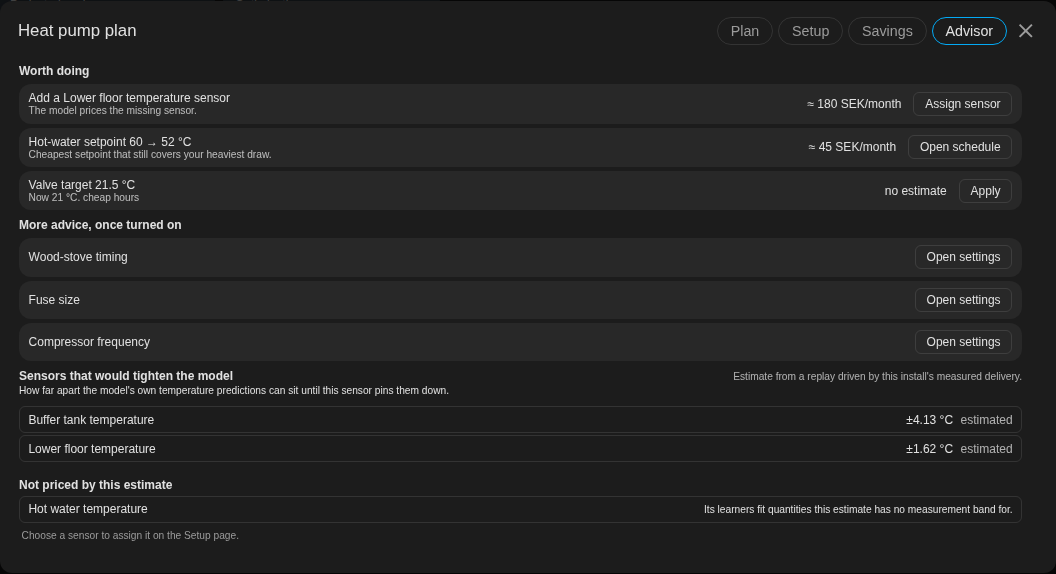
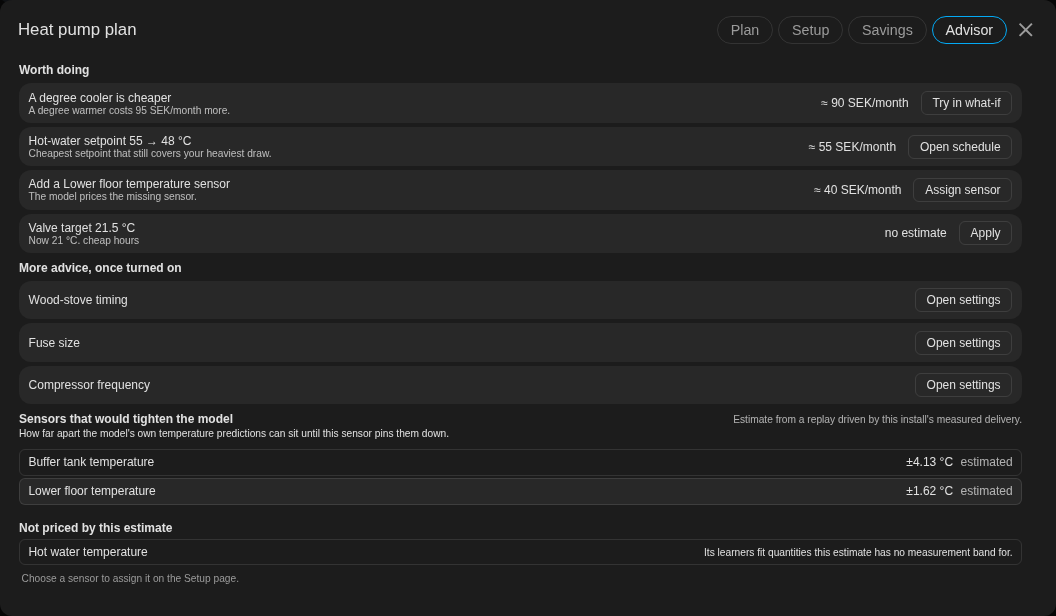
R9-UX-2: price of a degree row, interpolated hot-water price, honest unavailable state, UX-5 carry
Round 1 review: deliver the degree row from price_tiles, price an off-grid hot-water setpoint, pin the rank order with an unordered fixture, kill the gap/at-recommendation/valve-rounding survivors, stop reading attributes of an unavailable advisor, and write the R9-UX-5 carry into carry-1795.json.

Claude-Session: https://claude.ai/code/session_013PTXRW4koLWsYafMCC8Gt5

diff --git a/custom_components/heatpump_optimizer/www/heatpump-optimizer-card.js b/custom_components/heatpump_optimizer/www/heatpump-optimizer-card.js
@@ -120,6 +120,10 @@ const STRINGS = {
     "advisor.valve_detail": "Now {from} °C. {reason}",
     "advisor.act_apply": "Apply",
     "advisor.act_settings": "Open settings",
+    "advisor.degree_title": "A degree cooler is cheaper",
+    "advisor.degree_detail": "A degree warmer costs {up} {currency}/month more.",
+    "advisor.act_degree": "Try in what-if",
+    "advisor.optin_degree": "Price of a degree",
     "advisor.applied": "Valve target set to {to} °C.",
     "advisor.apply_failed": "Could not apply: {error}",
     "advisor.optin_wood": "Wood-stove timing",
@@ -661,6 +665,10 @@ const STRINGS = {
     "advisor.valve_detail": "Nu {from} °C. {reason}",
     "advisor.act_apply": "Verkställ",
     "advisor.act_settings": "Öppna inställningar",
+    "advisor.degree_title": "En grad svalare är billigare",
+    "advisor.degree_detail": "En grad varmare kostar {up} {currency}/månad mer.",
+    "advisor.act_degree": "Prova i what-if",
+    "advisor.optin_degree": "Pris på en grad",
     "advisor.applied": "Ventilmålet satt till {to} °C.",
     "advisor.apply_failed": "Kunde inte verkställa: {error}",
     "advisor.optin_wood": "Vedpannans timing",
@@ -7890,6 +7898,7 @@ const ADVISOR_SUFFIXES = {
   valve: "_valve_target_recommendation",
 };
 const ADVISOR_OPT_IN = ["wood", "fuse", "frequency"];
+// Shown only while the score sensor publishes no price_tiles (their switch is off).
 const SETTINGS_PATH = "/config/integrations/integration/heatpump_optimizer";
 const DAYS_PER_MONTH = 30;
 
@@ -7906,22 +7915,49 @@ function advisorSignature(plan) {
 function advisorRow(plan, kind, build) {
   const st = plan.statEntity(ADVISOR_SUFFIXES[kind]);
   if (!st) return null;
+  // Home Assistant drops extra attributes while an entity is unavailable, so
+  // nothing but the state is trusted there; "unknown" keeps its attributes,
+  // which is where a sensor says what it is still waiting for.
+  if (st.state === "unavailable") return { kind, status: "error" };
   const attrs = st.attributes || {};
-  if (st.state === "unavailable" || st.state === "unknown") {
+  if (st.state === "unknown") {
     return attrs.waiting_for
       ? { kind, status: "waiting", reason: String(attrs.waiting_for) }
-      : { kind, status: "error", reason: attrs.reason ? String(attrs.reason) : "" };
+      : { kind, status: "error" };
   }
   const row = build(Number(st.state), attrs);
   return row ? { kind, status: "ready", ...row } : null;
 }
 
+/** Price of a degree: the score sensor's `price_tiles` (target -1 / +1 degC),
+ * present only while the backend computes them. Null when it does not. */
+function priceTiles(plan) {
+  const st = plan.statEntity("_plan_optimization_score");
+  const tiles = st && st.attributes && st.attributes.price_tiles;
+  const down = tiles && tiles.target_minus_1;
+  const up = tiles && tiles.target_plus_1;
+  return down && up && Number.isFinite(Number(down.monthly_cost_delta)) ? { down, up } : null;
+}
+
+/** Linear cost per day at an off-grid setpoint, clamped to the swept range. */
+function dhwCostPerDay(candidates, setpoint) {
+  const pts = (candidates || [])
+    .map((c) => [Number(c.setpoint), Number(c.cost_per_day)])
+    .filter(([x, y]) => Number.isFinite(x) && Number.isFinite(y))
+    .sort((p, q) => p[0] - q[0]);
+  if (!pts.length) return NaN;
+  if (setpoint <= pts[0][0]) return pts[0][1];
+  const last = pts[pts.length - 1];
+  if (setpoint >= last[0]) return last[1];
+  const i = pts.findIndex((p) => p[0] >= setpoint);
+  const [x0, y0] = pts[i - 1];
+  const [x1, y1] = pts[i];
+  return y0 + ((y1 - y0) * (setpoint - x0)) / (x1 - x0);
+}
+
 function advisorRows(host) {
   const plan = host.plan;
-  const cost = (attrs, setpoint) => {
-    const hit = (attrs.candidates || []).find((c) => c.setpoint === setpoint);
-    return hit ? Number(hit.cost_per_day) : NaN;
-  };
+  const tiles = priceTiles(plan);
   const rows = [
     advisorRow(plan, "gap", (value, attrs) => {
       if (!(value > 0) || !attrs.top_slot) return null;
@@ -7935,7 +7971,7 @@ function advisorRows(host) {
     advisorRow(plan, "dhw", (to, attrs) => {
       const from = Number(attrs.current_setpoint);
       if (!Number.isFinite(to) || !Number.isFinite(from) || to === from) return null;
-      const perDay = cost(attrs, from) - cost(attrs, to);
+      const perDay = dhwCostPerDay(attrs.candidates, from) - dhwCostPerDay(attrs.candidates, to);
       return {
         value: perDay > 0 ? perDay * DAYS_PER_MONTH : null, act: "open_schedule",
         title: L("advisor.dhw_title", { from, to }), detail: L("advisor.dhw_detail"),
@@ -7954,6 +7990,15 @@ function advisorRows(host) {
         detail: L("advisor.valve_detail", { from, reason: attrs.reason || "" }),
       };
     }),
+    tiles && {
+      kind: "degree", status: "ready", act: "try_degree",
+      // Only a saving is a value; a degree that costs more is still shown.
+      value: Number(tiles.down.monthly_cost_delta) < 0 ? -Number(tiles.down.monthly_cost_delta) : null,
+      target: Number(tiles.down.overrides && tiles.down.overrides.target_temp),
+      title: L("advisor.degree_title"),
+      detail: L("advisor.degree_detail", {
+        up: Math.round(Number(tiles.up.monthly_cost_delta)), currency: plan.currency() }),
+    },
   ].filter(Boolean);
   // Ranked by monthly value; a row with no money in it follows every priced one.
   return rows.sort((a, b) => (b.value ?? -1) - (a.value ?? -1));
@@ -7962,12 +8007,12 @@ function advisorRows(host) {
 function advisorRowHtml(host, row) {
   const act = {
     assign: "advisor.act_assign", open_schedule: "advisor.act_schedule",
-    apply_valve: "advisor.act_apply",
+    apply_valve: "advisor.act_apply", try_degree: "advisor.act_degree",
   };
   if (row.status !== "ready") {
     const text = row.status === "waiting"
       ? L("advisor.waiting", { reason: row.reason })
-      : `${L("advisor.unavailable")}${row.reason ? ` (${row.reason})` : ""}`;
+      : L("advisor.unavailable");
     return `<div class="adv-inbox-row adv-${row.status}"><span class="adv-text">${esc(text)}</span></div>`;
   }
   const value = row.value === null ? L("advisor.no_value")
@@ -7983,7 +8028,7 @@ function advisorRowHtml(host, row) {
 
 function advisorInboxHtml(host) {
   const rows = advisorRows(host);
-  const optIn = ADVISOR_OPT_IN.map((id) => `<div class="adv-inbox-row">
+  const optIn = (priceTiles(host.plan) ? ADVISOR_OPT_IN : ["degree", ...ADVISOR_OPT_IN]).map((id) => `<div class="adv-inbox-row">
       <span class="adv-text">${esc(L(`advisor.optin_${id}`))}</span>
       <button type="button" class="adv-act" data-act="settings">${esc(L("advisor.act_settings"))}</button>
     </div>`).join("");
@@ -8108,6 +8153,15 @@ function attachAdvisorInbox(host, root) {
         host.dialog.page = "setup";
       } else if (act === "open_schedule") {
         host.dialog.page = "plan";
+      } else if (act === "try_degree") {
+        // Seed the what-if slider with the tile's target and run it.
+        const to = Number(btn.dataset.target);
+        if (Number.isFinite(to)) host.whatIf.draft().comfort = Math.min(24, Math.max(16, to));
+        host.dialog.page = "plan";
+        host.dialog.scroll = 0;
+        host._render();
+        host.whatIf.run();
+        return;
       } else if (act === "settings") {
         navigateTo(SETTINGS_PATH);
         return;

diff --git a/docs/dashboard-card.md b/docs/dashboard-card.md
@@ -524,7 +524,7 @@ your plan cheaper, ranked by what each change is worth per month.
 
 <picture>
   <source media="(prefers-color-scheme: dark)" srcset="img/card/advisor-dark.png">
-  <img alt="The Advisor tab: a Worth doing section with a sensor-gap row at about 180 kronor a month with an Assign sensor button, a hot-water setpoint row at about 45 kronor a month with an Open schedule button and a valve-target row with an Apply button; below it a More advice, once turned on section with wood-stove timing, fuse size and compressor frequency rows, each with an Open settings button; then the ranking of sensors that would tighten the model" src="img/card/advisor-light.png">
+  <img alt="The Advisor tab: a Worth doing section with a price-of-a-degree row with a Try in what-if button, a hot-water setpoint row with an Open schedule button, a sensor-gap row with an Assign sensor button and a valve-target row with an Apply button; below it a More advice, once turned on section with wood-stove timing, fuse size and compressor frequency rows, each with an Open settings button; then the ranking of sensors that would tighten the model" src="img/card/advisor-light.png">
 </picture>
 
 *Every figure is an estimate (it reads "≈") and comes from the integration's
@@ -536,19 +536,29 @@ own advisor sensors, not from the card.*
   monthly cost. **Assign sensor** opens the Setup page's assign picker for that
   exact slot.
 - **The hot-water setpoint.** The cheapest setpoint that still covers your
-  heaviest draw, priced against the setpoint you run. **Open schedule** takes
-  you to the Plan tab's schedule editor; the setpoint is not written from here.
+  heaviest draw, priced against the setpoint you run. The advisor sweeps
+  setpoints two degrees apart, so a setpoint between two of them (the default
+  55 °C) is priced by interpolating between its neighbours. **Open schedule**
+  takes you to the Plan tab's schedule editor; the setpoint is not written
+  from here.
+- **The price of a degree.** What a degree cooler would save a month, and what
+  a degree warmer would cost, from the score sensor's price tiles. **Try in
+  what-if** opens the Plan tab's what-if panel with the comfort slider on the
+  cooler target and runs the simulation. The tiles exist only while the
+  integration's price-tiles option is on; with it off the row is offered under
+  **More advice, once turned on** instead.
 - **The valve target.** The mixing valve's recommended target, which carries no
   money figure and so follows the priced rows. **Apply** appears only when the
   valve holds a manual setpoint, and calls `assign_entity` with it.
 
 A row reads its own state: an advisor still learning says what it is waiting
-for, and one that is unavailable says "This advice is unavailable right now"
-with the reason it publishes. When there is nothing to do, the page says "Nothing
+for, and one that is unavailable says "This advice is unavailable right now".
+Home Assistant hides an entity's attributes while it is unavailable, so that
+row has no reason to show. When there is nothing to do, the page says "Nothing
 to do: the plan is already as cheap as your settings allow."
 
-**More advice, once turned on** offers wood-stove timing, fuse size and
-compressor frequency. These advisors are off by default, so the card never
+**More advice, once turned on** offers the price of a degree (while its tiles are off), wood-stove timing,
+fuse size and compressor frequency. These advisors are off by default, so the card never
 reads them: each row only offers **Open settings** to the integration's page,
 where you can turn them on.
 
